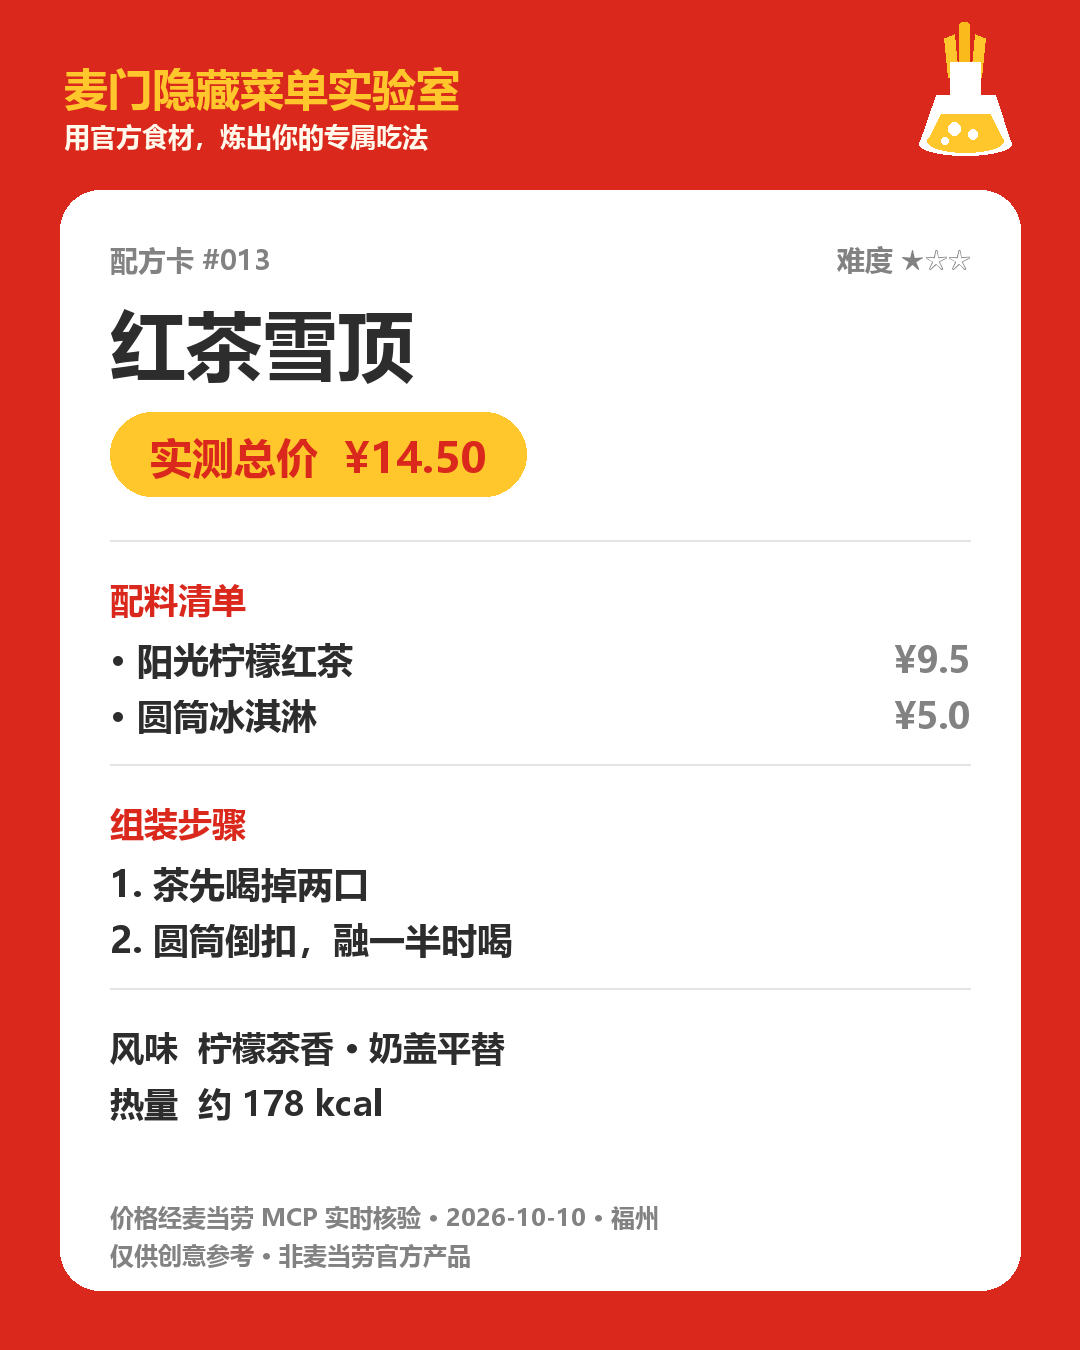
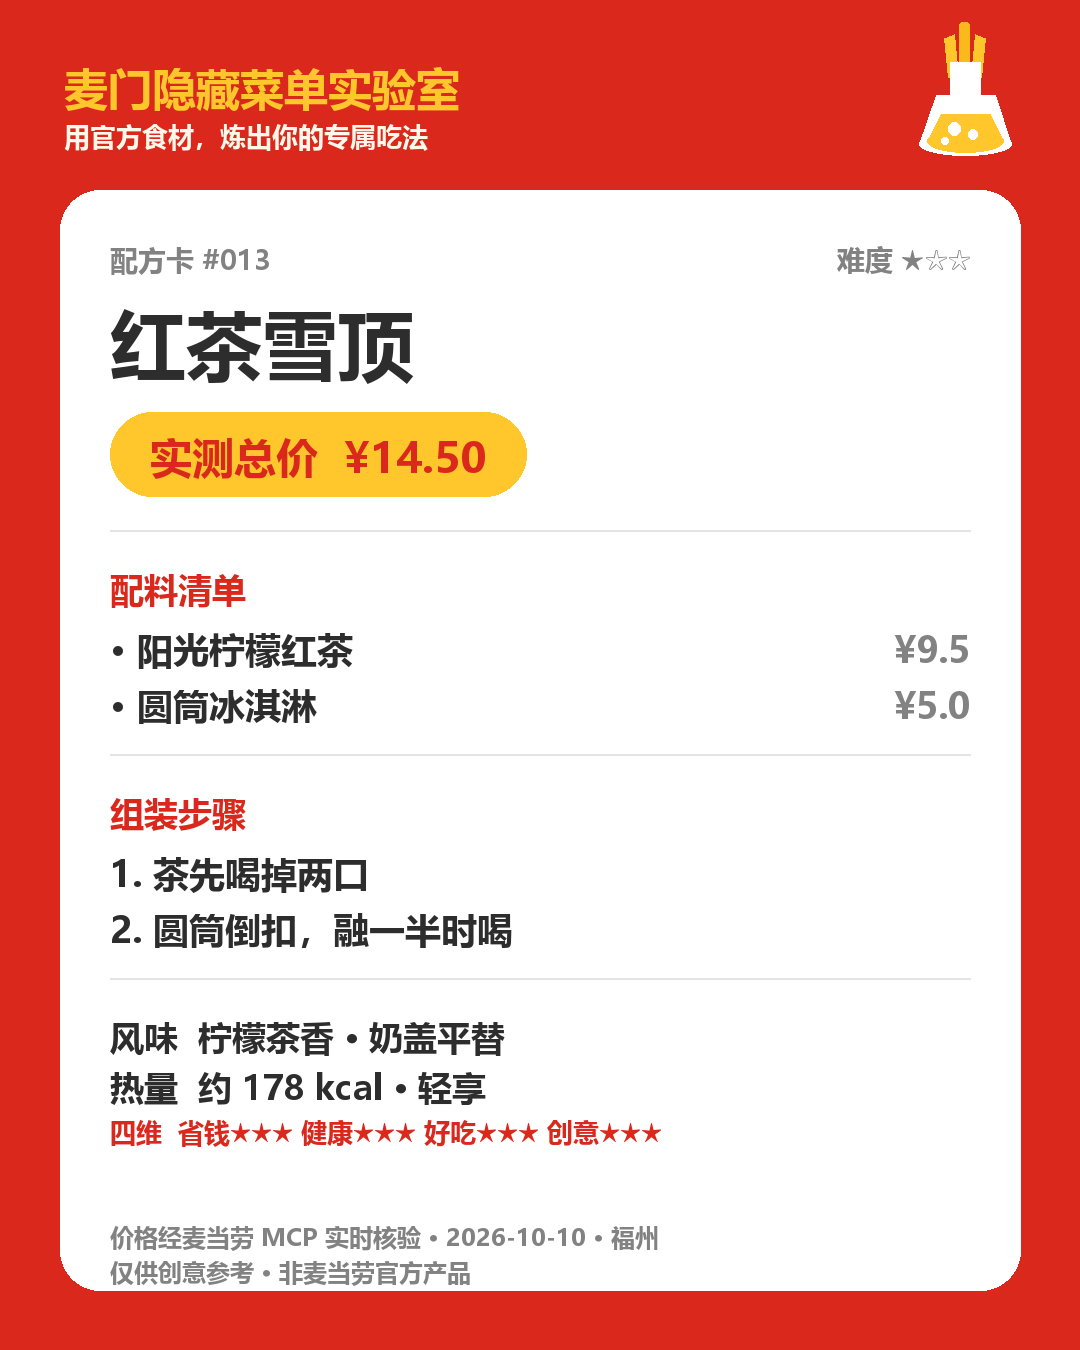
feat: 四维体系上线 — 省钱×健康×好吃×创意（营养指南+评分规则+卡片四维渲染+全文档契合）

diff --git a/tools/make_recipe_card.py b/tools/make_recipe_card.py
@@ -107,6 +107,24 @@ RECIPES = [
      "flavor": "焦辣 × 冰甜 · 极限反差", "kcal": "约 474 kcal"},
 ]
 
+# 四维评分（省钱 / 健康 / 好吃 / 创意 / 健康分级），规则见 references/nutrition-guide.md
+SCORES = {
+    "#001": ("★☆☆", "★☆☆", "★★★", "★★☆", "大满足"),
+    "#002": ("★★☆", "★★☆", "★★★", "★★☆", "大满足"),
+    "#003": ("★★★", "★★★", "★★★", "★★☆", "轻享"),
+    "#004": ("★★☆", "★★☆", "★★★", "★★★", "适中"),
+    "#005": ("★★★", "★★☆", "★★★", "★★☆", "适中"),
+    "#006": ("★★☆", "★★☆", "★★☆", "★★★", "轻享"),
+    "#007": ("★☆☆", "★☆☆", "★★★", "★★☆", "大满足"),
+    "#008": ("★★★", "★★★", "★★☆", "★★☆", "轻享"),
+    "#009": ("★★☆", "★★☆", "★★★", "★★☆", "适中"),
+    "#010": ("★★☆", "★★☆", "★★★", "★★☆", "适中"),
+    "#011": ("★☆☆", "★☆☆", "★★★", "★★☆", "大满足"),
+    "#012": ("★★☆", "★★☆", "★★★", "★★★", "适中"),
+    "#013": ("★★★", "★★★", "★★★", "★★★", "轻享"),
+    "#014": ("★☆☆", "★★☆", "★★★", "★★★", "适中"),
+}
+
 
 def _rounded(d, box, radius, fill):
     try:
@@ -145,7 +163,7 @@ def make_card(r, out_path):
     tw = d.textlength(badge_text, font=f_badge)
     _rounded(d, (x, y, x + tw + 80, y + 84), 42, YELLOW)
     d.text((x + 40, y + 16), badge_text, font=f_badge, fill=RED)
-    y += 84 + 44
+    y += 84 + 34
 
     # 分割线
     d.line((x, y, W - 110, y), fill=LIGHT, width=2)
@@ -173,15 +191,19 @@ def make_card(r, out_path):
     d.line((x, y, W - 110, y), fill=LIGHT, width=2)
     y += 36
 
-    # ===== 风味 / 热量 =====
+    # ===== 风味 / 热量 / 四维评分 =====
+    sc = SCORES.get(r["no"], ("★☆☆", "★☆☆", "★☆☆", "★☆☆", "适中"))
     d.text((x, y), "风味  " + r["flavor"], font=load_font(34), fill=DARK)
-    y += 56
-    d.text((x, y), "热量  " + r["kcal"], font=load_font(34), fill=DARK)
-    y += 80
+    y += 50
+    d.text((x, y), "热量  " + r["kcal"] + " · " + sc[4], font=load_font(34), fill=DARK)
+    y += 50
+    d.text((x, y), "四维  省钱%s 健康%s 好吃%s 创意%s" % (sc[0], sc[1], sc[2], sc[3]),
+           font=load_font(26), fill=RED)
+    y += 70
 
     # 底部注脚
-    d.text((x, H - 150), "价格经麦当劳 MCP 实时核验 · 2026-10-10 · 福州", font=load_font(24), fill=GRAY)
-    d.text((x, H - 112), "仅供创意参考 · 非麦当劳官方产品", font=load_font(24), fill=GRAY)
+    d.text((x, H - 130), "价格经麦当劳 MCP 实时核验 · 2026-10-10 · 福州", font=load_font(24), fill=GRAY)
+    d.text((x, H - 95), "仅供创意参考 · 非麦当劳官方产品", font=load_font(24), fill=GRAY)
 
     img.save(out_path, "PNG")
     return out_path

diff --git a/tools/make_social_poster.py b/tools/make_social_poster.py
@@ -69,7 +69,7 @@ def make_cover(out_path):
     d.text((90, 320), "被我做成了 AI", font=load_font(108), fill=WHITE)
 
     # 副标题
-    d.text((92, 470), "薯条蘸麦旋风，只是入门级", font=load_font(46), fill=YELLOW)
+    d.text((92, 462), "省钱 × 健康 × 好吃 × 创意", font=load_font(46), fill=YELLOW)
 
     # 中间白卡
     _rounded(d, (70, 570, W - 70, 1180), 40, WHITE)
@@ -92,7 +92,7 @@ def make_cover(out_path):
             d.text((W - 130 - pw, y), price, font=load_font(42), fill=RED)
         y += 66
     y += 10
-    d.text((x, y), "全部价格经麦当劳 MCP 实时核验", font=load_font(30), fill=(150, 150, 150))
+    d.text((x, y), "全部价格经麦当劳 MCP 实时核验 · 四维评分见配方卡", font=load_font(30), fill=(150, 150, 150))
 
     # 底部
     d.text((90, H - 190), "说一句话，AI 帮你发明专属吃法", font=load_font(42), fill=CREAM)

diff --git a/references/nutrition-guide.md b/references/nutrition-guide.md
@@ -1,0 +1,61 @@
+# 🥗 营养指南与四维评分体系
+
+> 本实验室的每个配方都经过四个维度的核验：**💰省钱 · 🥗健康 · 😋好吃 · 🎨创意**
+> 本文档定义评分规则，SKILL 与配方库都以此为准（DIY 核验也走同一套规则）。
+
+---
+
+## 一、营养数据来源
+
+- **实测值**：来自麦当劳 MCP `list-nutrition-foods`（158 项官方营养表：热量/蛋白/脂肪/碳水/钠/钙）
+- **参考值**：某些商品未收录于营养表时，采用同类商品的官方数据并标注「参考」
+- **未收录**：部分调料/限定新品不在营养表内，明确标注，不做猜测
+
+## 二、健康分级（按总热量）
+
+| 分级 | 热量区间 | 标识 | 说明 |
+|---|---|---|---|
+| 🟢 轻享 | ≤ 300 kcal | 轻享 | 日常无负担 |
+| 🟡 适中 | 300–500 kcal | 适中 | 正常一餐的合理范围 |
+| 🔴 大满足 | > 500 kcal | 大满足 | 建议当日均衡其他餐次 |
+
+**附加提示规则**：
+
+- 钠 > 600 mg → 提示「当日注意控盐」
+- 蛋白 ≥ 15 g → 加分提示「优质蛋白」
+- 含糖饮料组合 → 提示「可换无糖版本降低糖分」
+
+## 三、四维评分规则（每维 1–3 星）
+
+| 维度 | ★★★ | ★★☆ | ★☆☆ |
+|---|---|---|---|
+| 💰 省钱 | ≤ ¥15 | ¥15–25 | > ¥25 |
+| 🥗 健康 | ≤ 300 kcal | 300–500 kcal | > 500 kcal |
+| 😋 好吃 | 风味矩阵 √√ ≥ 2 组 | √√ = 1 组 | 仅 √ 组合 |
+| 🎨 创意 | 原创配方 | 经典还原 | 常规组合 |
+
+> 评分为**辅助参考**，帮助用户快速比较配方；具体口味因人而异。
+
+## 四、DIY 核验中的营养检查（模式 D 必备步骤）
+
+当用户提交 DIY 吃法时，除计价外必须：
+
+1. 汇总每个食材的营养（`list-nutrition-foods` 实测；缺失标「参考」）
+2. 计算总热量 → 给出健康分级
+3. 按四维规则给出评分
+4. 若热量 > 500 kcal 或钠 > 600 mg，**主动给出平衡建议**（如搭配无糖饮料、蔬菜杯、分食等）
+5. 全部写入配方卡
+
+## 五、平衡建议库（供参考）
+
+| 情况 | 建议 |
+|---|---|
+| 热量偏高（>500 kcal） | 搭配无糖可乐/纯悦；或与朋友分食；当日其他餐次减量 |
+| 钠偏高（>600 mg） | 少蘸酱；多喝水；搭配蔬菜杯（如有） |
+| 缺蛋白（<10 g） | 加一份麦乐鸡/鸡排提升蛋白质 |
+| 想要更轻 | 换小份薯条/迷你新地，热量立减 100+ kcal |
+| 想要更饱 | 加玉米杯（87 kcal）比加薯条（289 kcal）更划算 |
+
+---
+
+*数据来源：麦当劳 MCP 官方营养表（2026-10-10 实测）。本指南仅作参考，不构成营养或医疗建议。*

diff --git a/references/recipes.md b/references/recipes.md
@@ -1,9 +1,34 @@
-# 🍟 网红配方库（v2.1 · 真实核验版 · 14 个配方）
+# 🍟 网红配方库（v3 · 四维核验版 · 14 个配方）
 
-> ✅ 本版本所有价格与食材可购性均经麦当劳 MCP 实时核验
-> **核验门店**：福州五四路(省农科院)餐厅（storeCode 1410005）
-> **核验时间**：2026-10-10 15:38（北京时间）
+> ✅ 所有价格与食材可购性经麦当劳 MCP 实时核验；所有热量数据来自官方营养表
+> **四维标准**：💰省钱（实时计价）· 🥗健康（热量分级）· 😋好吃（风味矩阵）· 🎨创意（原创度）
+> **核验门店**：福州五四路(省农科院)餐厅（storeCode 1410005）｜**核验时间**：2026-10-10
 > ⚠ 价格与在售情况随城市/门店/季节变化，请以实时核验为准（这正是本实验室「先核验、后出卡」的原因）
+
+---
+
+## 🧭 四维总览
+
+> 评分规则见 [nutrition-guide.md](nutrition-guide.md)
+
+| # | 配方 | 实测价 | 热量 | 💰省钱 | 🥗健康 | 😋好吃 | 🎨创意 |
+|---|---|---|---|---|---|---|---|
+| 001 | 薯条蘸麦旋风 | ¥30.00 | ~555 | ★☆☆ | ★☆☆ | ★★★ | ★★☆ |
+| 002 | 派上浇冰 | ¥20.50 | ~514 | ★★☆ | ★★☆ | ★★★ | ★★☆ |
+| 003 | 雪顶可乐 | ¥14.50 | ~240 | ★★★ | ★★★ | ★★★ | ★★☆ |
+| 004 | 芝士瀑布薯条 | ¥17.50 | 289+ | ★★☆ | ★★☆ | ★★★ | ★★★ |
+| 005 | 冰火小圆子派 | ¥10.00 | ~325 | ★★★ | ★★☆ | ★★★ | ★★☆ |
+| 006 | 双酱鸡块 | ¥20.00 | 213+ | ★★☆ | ★★☆ | ★★☆ | ★★★ |
+| 007 | 早餐王牌 | ¥30.50 | ~533 | ★☆☆ | ★☆☆ | ★★★ | ★★☆ |
+| 008 | 酸甜脆薯 | ¥14.50 | 289 | ★★★ | ★★★ | ★★☆ | ★★☆ |
+| 009 | 雪顶麦炫酷 | ¥17.50 | ~321 | ★★☆ | ★★☆ | ★★★ | ★★☆ |
+| 010 | 麦旋风双拼 | ¥20.50 | ~498 | ★★☆ | ★★☆ | ★★★ | ★★☆ |
+| 011 | 星星撞薯 | ¥31.00 | ~555 | ★☆☆ | ★☆☆ | ★★★ | ★★☆ |
+| 012 | 扭扭芝士塔 | ¥19.00 | ~280 | ★★☆ | ★★☆ | ★★★ | ★★★ |
+| 013 | 红茶雪顶 | ¥14.50 | ~178 | ★★★ | ★★★ | ★★★ | ★★★ |
+| 014 | 焦香撞冰 | ¥28.50 | ~474 | ★☆☆ | ★★☆ | ★★★ | ★★★ |
+
+🏆 **四维俱佳之选**：#013 红茶雪顶（¥14.50 · ~178 kcal · 四维全高分）
 
 ---
 

diff --git a/README.md b/README.md
@@ -3,6 +3,7 @@
 <img src="assets/emblem.png" width="110" align="right" alt="项目标识：烧瓶薯条">
 
 > 用麦当劳官方食材，炼出你的专属吃法。
+> **省钱 × 健康 × 好吃 × 创意** —— 一个四维配方实验室。
 > 全网网红隐藏吃法的**还原器** + 你的专属**配方发明机**。
 
 [![Stars](https://img.shields.io/github/stars/Reak-Z/mcd-secret-menu-lab?style=social)](https://github.com/Reak-Z/mcd-secret-menu-lab)
@@ -31,7 +32,7 @@
 | 🧑🍳 **DIY 核验** | “我有个吃法：薯条+新地+奥利奥碎” | 核验食材可购 + 实时计价 + 风味评估，生成你的专属配方卡 |
 | 🎫 **省钱助手** | “帮我领券 / 有什么券能用” | 一键领券（需你确认）+ 临期券预警 + 券后最优价（实测：¥19 冰美式 → 券后 ¥9.90） |
 
-每个配方都会生成一张可分享的 **「配方卡」** 📸
+每个配方都会生成一张可分享的 **「配方卡」** 📸 —— 并且都经过**四维核验**：💰省钱（实时计价）· 🥗健康（热量分级 + 钠提示）· 😋好吃（风味矩阵）· 🎨创意（原创度）。评分规则见 [nutrition-guide.md](references/nutrition-guide.md)。
 
 ---
 

diff --git a/.github/ISSUE_TEMPLATE/diy-recipe.md b/.github/ISSUE_TEMPLATE/diy-recipe.md
@@ -17,6 +17,8 @@ labels: ["DIY配方"]
 
 **核验价格**（可选，如果是用本实验室核验过的请填写）：
 
+**总热量**（可选，kcal —— 本实验室会帮你核算并给出健康分级）：
+
 **你的昵称**（用于排行榜展示）：
 
 ## ✅ 投稿自检
